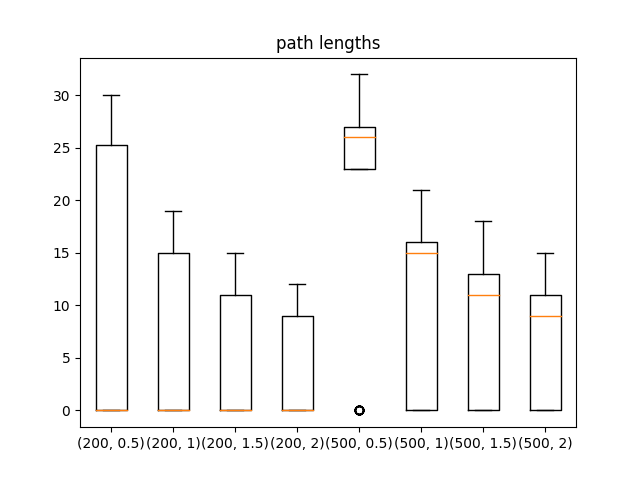
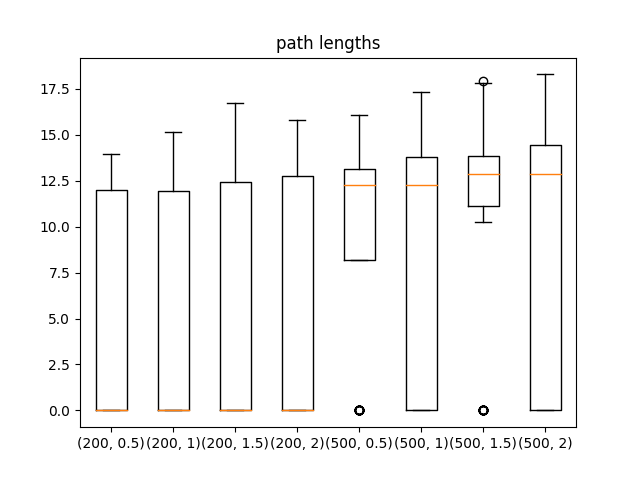
Finalize

diff --git a/benchmark.py b/benchmark.py
@@ -1,7 +1,21 @@
 import matplotlib.pyplot as plt
+import math
 
 from main import get_input_a, get_input_b, get_input_c
 from rrt import GoalBiasRRT
+
+
+def compute_path_lenght(path):
+    i = 0
+    length = 0
+    while i < len(path):
+        point = path[i].point
+        if i == len(path) - 1:
+            break
+        next_point = path[i+1].point
+        length += math.dist(point, next_point)
+        i += 1
+    return length
 
 
 def get_a_n_r_list():
@@ -42,7 +56,7 @@ def benchmark():
         for _ in range(0, 100):
             prm = GoalBiasRRT(n, r, p, epsilon, start, goal, x_range, y_range, obstacles)
             path, _, computation_time, _, _, _, found_solution = prm.path_planning()
-            path_lengths.append(len(path) - 1)
+            path_lengths.append(compute_path_lenght(path))
             computation_times.append(computation_time)
             solutions[n_r][found_solution] += 1
 
@@ -58,8 +72,8 @@ def benchmark():
 
     plt.boxplot(box_plot_path, labels=labels)
     plt.title("path lengths")
-    # plt.savefig(f"plots_again/path_lengths_benchmark.png")
-    plt.show()
+    plt.savefig(f"path_lengths_benchmark.png")
+    # plt.show()
     plt.clf()
     plt.cla()
     plt.close()
@@ -68,7 +82,7 @@ def benchmark():
     plt.boxplot(box_plot_comp, labels=labels)
     plt.title("computation times")
     # plt.savefig(f"plots_again/computation_times_benchmark.png")
-    plt.show()
+    # plt.show()
     plt.clf()
     plt.cla()
     plt.close()

diff --git a/draw.py b/draw.py
@@ -1,4 +1,17 @@
 import matplotlib.pyplot as plt
+import math
+
+def compute_path_lenght(path):
+    i = 0
+    length = 0
+    while i < len(path):
+        point = path[i].point
+        if i == len(path) - 1:
+            break
+        next_point = path[i+1].point
+        length += math.dist(point, next_point)
+        i += 1
+    return length
 
 def draw(graph, start, goal, x_range, y_range, obstacles, path):
     plt.xlim(x_range[0], x_range[1])
@@ -13,7 +26,7 @@ def draw(graph, start, goal, x_range, y_range, obstacles, path):
         x, y = obstacle.exterior.xy
         plt.plot(x, y, color='red')
 
-    plt.title(f"Path length: {len(path) - 1}")
+    plt.title(f"Path length: {compute_path_lenght(path)}")
 
     # draw path
     i = 0

diff --git a/README.md b/README.md
@@ -1,0 +1,16 @@
+# PRM
+
+## Run
+Go to `main.py`, in `if __name__ = '__main__'` part, you can indicate the input you want to run, After that enter:
+
+`python main.py`
+
+It will output the generated RRT map.
+
+## Benchmark
+Go to `benchmark.py`, on line 33 and 34 indicate the input you want to benchmark. After that enter:
+
+`python benchmark.py`
+
+## plots
+the already generated plots are also in the current directory. 
